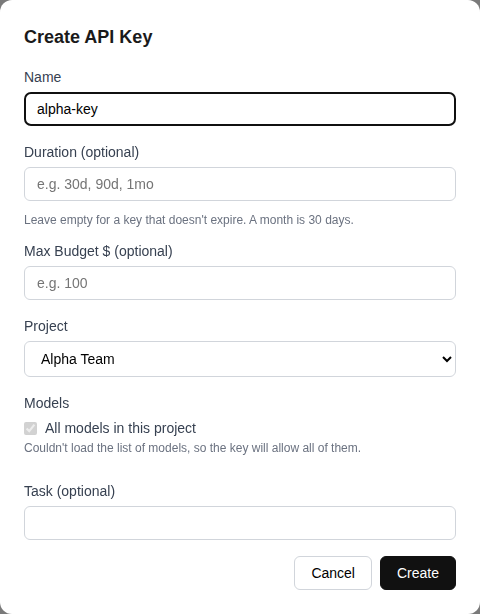
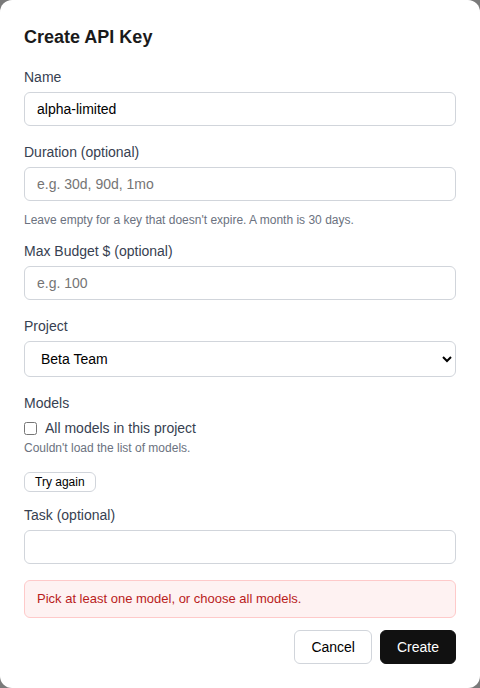
Models: keep the picker's choice on load failure, star-only wildcards
- If the model list can't be loaded, "All" stays as the user set it, so
  a key meant to be limited isn't quietly made unrestricted; Create asks
  for a choice and a "Try again" button reloads the list.
- Wildcards: only * is special (? and [...] are literal), and a
  requested name with a * must be an allowed entry exactly.
- _require_current_team uses the shared member_teams()/is_member()
  lookup instead of its own.
- The "couldn't load" screenshot shows the new state.

Claude-Session: https://claude.ai/code/session_01Xpq6NfrNXejnoQYZm2FZCq

Changed region(s): [[0.0312, 0.0309, 0.9688, 0.9902], [0.9062, 0.4951, 0.9375, 0.5261]]

diff --git a/static/key-models.js b/static/key-models.js
@@ -29,6 +29,7 @@ async function loadModelOptions() {
         teamsEnabled ? "All models in this " + teamWord(false) : "All models";
     list.textContent = "";
     hint.textContent = "";
+    document.getElementById("key-models-retry").classList.add("hidden");
     allBox.disabled = true;
     var teamId = selectedTeamId();
     if (teamsEnabled && !teamId) return;
@@ -41,9 +42,13 @@ async function loadModelOptions() {
         models = (await r.json()).models || [];
     } catch (e) {
         if (seq !== modelsRequest) return;
-        allBox.checked = true;
+        // Leave "All" as the user set it: a key meant to be limited mustn't
+        // quietly become unrestricted. Unchecked, with nothing to pick,
+        // Create asks for a choice; they can choose all models or try again.
+        allBox.disabled = false;
         syncModelList();
-        hint.textContent = "Couldn't load the list of models, so the key will allow all of them.";
+        hint.textContent = "Couldn't load the list of models.";
+        document.getElementById("key-models-retry").classList.remove("hidden");
         return;
     }
     if (seq !== modelsRequest) return;  // a newer request (team changed) wins
@@ -86,3 +91,4 @@ function selectedModels() {
 
 document.getElementById("key-team").addEventListener("change", loadModelOptions);
 document.getElementById("key-models-all").addEventListener("change", syncModelList);
+document.getElementById("key-models-retry").addEventListener("click", loadModelOptions);

diff --git a/static/index.html b/static/index.html
@@ -71,6 +71,7 @@
                 <label class="checkbox-label"><input type="checkbox" id="key-models-all" checked> <span id="key-models-all-text">All models</span></label>
                 <div id="key-models-list" class="key-models-list hidden"></div>
                 <p id="key-models-hint" class="field-hint" aria-live="polite"></p>
+                <button type="button" id="key-models-retry" class="key-models-retry hidden">Try again</button>
             </fieldset>
             <div id="required-metadata-fields"></div>
             <div id="create-error" class="form-error hidden" role="alert"></div>

diff --git a/static/style.css b/static/style.css
@@ -330,6 +330,11 @@ td {
     padding-left: 24px;
 }
 
+.key-models-retry {
+    padding: 2px 10px;
+    font-size: 12px;
+}
+
 .field-hint {
     font-size: 12px;
     color: #6b7280;

diff --git a/app/core/team_membership.py b/app/core/team_membership.py
@@ -14,13 +14,13 @@ from app.core.team_claims import overage_detail, refresh_groups, session_teams, 
 logger = logging.getLogger(__name__)
 
 
-async def require_member(
-    request: Request, client: LiteLLMClient, team_id: str, *, refresh_claims: bool
-) -> None:
-    """A 400 unless ``team_id`` is one of the caller's teams; 502 if LiteLLM
-    can't say. With TEAM_SOURCE=claims the teams come from the groups: the
-    identity provider's current ones when ``refresh_claims`` (before a key is
-    made), else the sign-in's (read-only views). Group overage is a 403."""
+async def member_teams(
+    request: Request, client: LiteLLMClient, *, refresh_claims: bool
+) -> list[dict]:
+    """The caller's teams; 502 if LiteLLM can't say. With TEAM_SOURCE=claims
+    they come from the groups: the identity provider's current ones when
+    ``refresh_claims`` (before a key is made or widened), else the sign-in's
+    (read-only views). Group overage is a 403."""
     s = get_settings()
     claims = s.TEAM_SOURCE == "claims"
     groups = await refresh_groups(request) if claims and refresh_claims else None
@@ -36,5 +36,18 @@ async def require_member(
         raise HTTPException(status_code=502, detail="Upstream service error")
     if teams is None:  # the sign-in's token left the groups out
         raise HTTPException(status_code=403, detail=overage_detail(s))
-    if team_id not in {t.get("team_id") for t in teams}:
+    return teams
+
+
+def is_member(teams: list[dict], team_id: str | None) -> bool:
+    return bool(team_id) and team_id in {t.get("team_id") for t in teams}
+
+
+async def require_member(
+    request: Request, client: LiteLLMClient, team_id: str, *, refresh_claims: bool
+) -> None:
+    """A 400 unless ``team_id`` is one of the caller's teams (``member_teams``)."""
+    teams = await member_teams(request, client, refresh_claims=refresh_claims)
+    if not is_member(teams, team_id):
+        s = get_settings()
         raise HTTPException(status_code=400, detail=f"Invalid {s.team_word()} for this user")

diff --git a/app/core/model_access.py b/app/core/model_access.py
@@ -7,8 +7,8 @@ the proxy is allowed.
 """
 from __future__ import annotations
 
-import fnmatch
 import logging
+import re
 import time
 
 from fastapi import HTTPException
@@ -56,16 +56,27 @@ async def allowed_models(client: LiteLLMClient, team: dict | None) -> list[str]:
     return sorted({m for m in listed if m != NO_DEFAULT_MODELS})
 
 
+def _wildcard(pattern: str, model: str) -> bool:
+    """Whether ``model`` matches ``pattern``, where only ``*`` is special (any
+    run of characters). ``?`` and ``[...]`` are literal, unlike fnmatch."""
+    regex = ".*".join(re.escape(part) for part in pattern.split("*"))
+    return re.fullmatch(regex, model, flags=re.DOTALL) is not None
+
+
 def is_allowed(model: str, allowed: list[str]) -> bool:
     """Whether ``model`` is one of ``allowed``, or matches one of its wildcards
     (a team list's ``openai/*`` allows ``openai/gpt-4o``, as in LiteLLM).
 
-    Anything else is refused, including an access-group name the team doesn't
-    list: keys may only name what the project lists or a wildcard covers.
+    A requested name with a ``*`` must be an allowed entry exactly, so a key
+    can't ask for a wildcard wider than the team's. Anything else is refused,
+    including an access-group name the team doesn't list: keys may only name
+    what the project lists or a wildcard covers.
     """
-    return any(
-        model == a or ("*" in a and fnmatch.fnmatchcase(model, a)) for a in allowed
-    )
+    if model in allowed:
+        return True
+    if "*" in model:
+        return False
+    return any("*" in a and _wildcard(a, model) for a in allowed)
 
 
 async def models_for(client: LiteLLMClient, team_id: str | None, team_word: str) -> list[str]:

diff --git a/app/routes/keys.py b/app/routes/keys.py
@@ -18,8 +18,7 @@ from app.core.model_access import (
     requested_models,
 )
 from app.core.rate_limit import limiter
-from app.core.team_claims import refresh_groups, teams_for_groups
-from app.core.team_membership import require_member
+from app.core.team_membership import is_member, member_teams, require_member
 
 logger = logging.getLogger(__name__)
 
@@ -531,12 +530,8 @@ async def _require_current_team(request: Request, client: LiteLLMClient, info: d
     ):
         audit("rate_limited", bucket="key_change", user=request.state.user_email)
         raise HTTPException(status_code=429, detail="Too many key changes")
-    groups = await refresh_groups(request)
-    try:
-        teams = await teams_for_groups(groups, client)
-    except Exception as e:
-        raise _upstream_error("list_teams", e)
-    if not info.get("team_id") or info["team_id"] not in {t["team_id"] for t in teams}:
+    teams = await member_teams(request, client, refresh_claims=True)
+    if not is_member(teams, info.get("team_id")):
         raise HTTPException(
             status_code=403,
             detail=f"You're no longer in this key's {s.team_word()}, so it can't be changed or "

diff --git a/tests/test_models.py b/tests/test_models.py
@@ -384,3 +384,19 @@ async def test_oversized_model_lists_are_refused(models):
         updated = await c.patch("/api/keys/tok_m", headers=AUTH, json={"models": models})
     assert created.status_code == updated.status_code == 422
     assert not gen.called and not upd.called
+
+
+@pytest.mark.parametrize("model, allowed, expected", [
+    ("openai/gpt-4o", ["openai/*"], True),
+    ("openai/*", ["openai/*"], True),  # the entry itself
+    ("openai/*", ["*"], False),  # a requested wildcard must be an entry exactly
+    ("*", ["openai/*"], False),
+    ("gpt-4", ["gpt-?"], False),  # only * is special
+    ("gpt-?", ["gpt-?"], True),
+    ("gpt-4", ["gpt-[0-9]"], False),
+    ("axb", ["a.b*"], False),  # regex characters are literal
+    ("a.b-mini", ["a.b*"], True),
+])
+def test_is_allowed_treats_only_star_as_a_wildcard(model, allowed, expected):
+    from app.core.model_access import is_allowed
+    assert is_allowed(model, allowed) is expected

diff --git a/docs/2026-10-22-keys-per-project-and-models.md b/docs/2026-10-22-keys-per-project-and-models.md
@@ -56,7 +56,8 @@ offered. The proxy's model list is cached for 60 seconds.
   in the team's allowed list, or match one of its wildcards (`openai/*` allows
   `openai/gpt-4o`), or the request fails with 400 before anything is created.
   This is deliberately stricter than LiteLLM: an access-group name that isn't
-  in the list is refused, and so is a blank model name (so `[""]` can't mean
+  in the list is refused, and so is a requested name with a `*` that isn't an
+  entry itself (only `*` is a wildcard; `?` and `[...]` are literal), and a blank model name (so `[""]` can't mean
   "all"). If the team or the proxy's model list can't be read, or `/team/info`
   has no `team_info.models` list, the request fails (400 for a missing team,
   502 otherwise) and nothing is created. An empty or missing `models` means "all of the project's models":
@@ -71,6 +72,9 @@ offered. The proxy's model list is cached for 60 seconds.
   checkbox "All models in this {project}" (checked by default). Unchecking it
   shows one checkbox per allowed model. The list reloads when the project
   changes. Picking no models with "All" unchecked is refused with a message.
+  If the list can't be loaded, "All" stays as the user set it (a key meant to
+  be limited isn't quietly made unrestricted) and a "Try again" button
+  reloads it.
 - **Keys table:** a Models column showing a key's models, or "All".
 
 ### Code layout
